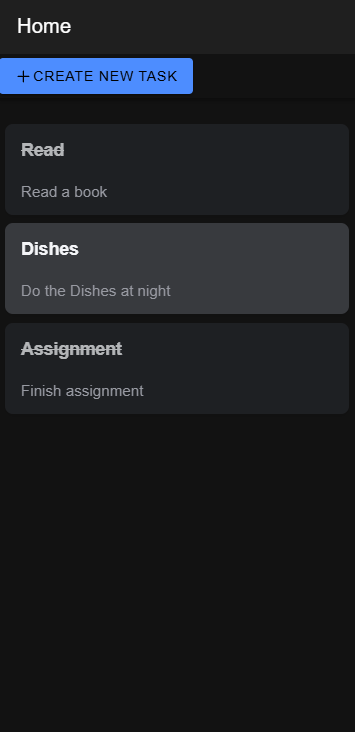
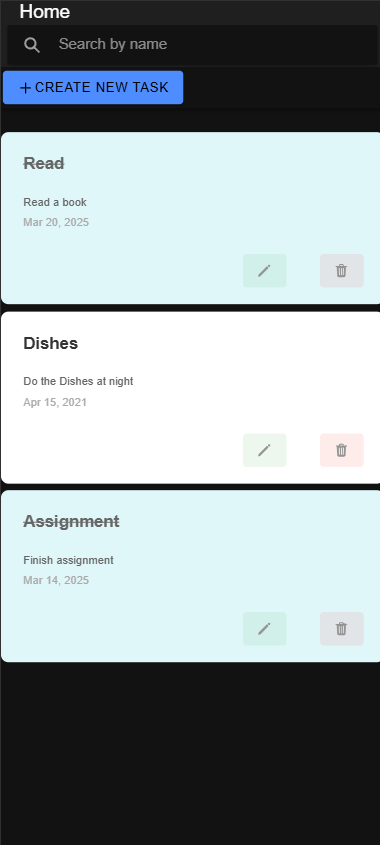
Search bar
Search bar added and readme fixed

diff --git a/src/app/shared/components/task-card/task-card.component.scss b/src/app/shared/components/task-card/task-card.component.scss
@@ -1,55 +1,100 @@
-.strikethrough{
+// Variables
+$primary-color: #4caf50;
+$danger-color: #f44336;
+$background-color: #fff;
+$shadow-color: rgba(0, 0, 0, 0.1);
+$text-color: #333;
+$secondary-text-color: #666;
+$small-text-color: #aaa;
+$completed-bg: #e0f7fa;
 
-	text-decoration: line-through;
-	opacity: 0.7;
+.task-card {
+	margin: 8px 0;
+	padding: 10px;
+	border-radius: 8px;
+	box-shadow: 0 2px 5px $shadow-color;
+	background-color: $background-color;
+	display: flex;
+	flex-direction: column;
+	justify-content: space-between;
+	transition: transform 0.2s ease-in-out;
 
+	&.done {
+		background-color: $completed-bg;
+	}
+
+	&:hover {
+		transform: translateY(-5px);
+		box-shadow: 0 5px 10px $shadow-color;
+	}
 }
 
-.task-card{
+.task-card .title {
+	font-size: 20px;
+	font-weight: bold;
+	color: $text-color;
+	margin: 0;
+}
 
-	cursor: pointer;
-	transition: transform 0.2s ease;
+.task-card .strikethrough {
+	text-decoration: line-through;
+	color: $secondary-text-color;
+}
 
-	margin: 8px;
-	border-radius: 8px;
-	box-shadow: 0 2px 6px rgba(0, 0, 0, 0.08);
-	background: var(--ion-color-light-tint);
+.task-card .description {
+	font-size: 14px;
+	color: $secondary-text-color;
+	margin: 4px 0;
+}
 
-	.title{
+.task-card .date {
+	font-size: 12px;
+	color: $small-text-color;
+	margin-top: 4px;
+}
 
-		font-size: 1.1rem;
-		font-weight: 600;
-		color: var(--ion-color-dark);
-		margin-bottom: 4px;
+.task-card .button-container {
+	display: flex;
+	justify-content: flex-end;
+	gap: 8px;
+}
 
+ion-button {
+	padding: 6px 12px;
+	border-radius: 20px;
+	font-size: 14px;
+	transition: background-color 0.3s ease;
+	--background: transparent;
+
+	& ion-icon {
+		font-size: 16px;
 	}
 
-	.content{
-
-		padding-top: 0;
-		
-		.description{
-
-			margin: 0;
-			color: var(--ion-color-medium);
-			font-size: 0.95rem;
-			line-height: 1.4;
-			white-space: pre-wrap;
-
-		}
-
+	&:hover {
+		background-color: rgba(0, 0, 0, 0.1);
 	}
 
-	&:active{
-
-		transform: scale(0.98);
-
-	}
-	
-	&.done{
-
-		background: var(--ion-color-light-shade);
-
+	&.primary {
+		--color: $primary-color;
+		--background: rgba(76, 175, 80, 0.1);
 	}
 
+	&.danger {
+		--color: $danger-color;
+		--background: rgba(244, 67, 54, 0.1);
+	}
+}
+
+@media (max-width: 600px) {
+	.task-card {
+		padding: 8px;
+	}
+
+	.task-card .title {
+		font-size: 18px;
+	}
+
+	.task-card .description {
+		font-size: 12px;
+	}
 }

diff --git a/src/app/task/services/task/task.service.ts b/src/app/task/services/task/task.service.ts
@@ -3,9 +3,10 @@ import { IStatement } from '@interfaces/statement/statement.interface';
 import { IQuery } from '@interfaces/query/query.interface';
 import { Task } from '@entities/task.entity';
 import { environment } from '@environment/environment';
-import { Observable } from 'rxjs';
+import { Observable, from } from 'rxjs';
+import { map } from 'rxjs/operators';
 
-import { Firestore, collection, collectionData, addDoc, deleteDoc, updateDoc, docData, doc } from '@angular/fire/firestore';
+import { Firestore, collection, collectionData, addDoc, deleteDoc, updateDoc, docData, doc, getDocs, query, where } from '@angular/fire/firestore';
 
 @Injectable({
 
@@ -13,7 +14,8 @@ import { Firestore, collection, collectionData, addDoc, deleteDoc, updateDoc, do
 
 }) export class TaskService implements IStatement<Task, string>, IQuery<Task, string>{
 
-	private readonly collectionName = environment.firebase.collections.task.name;
+	private readonly collectionName: string = environment.firebase.collections.task.name;
+	private readonly collectionIDField: string = environment.firebase.collections.task.idField;
 
 	public constructor(private firestore: Firestore) {}
 
@@ -23,7 +25,7 @@ import { Firestore, collection, collectionData, addDoc, deleteDoc, updateDoc, do
 
 			doc(this.firestore, `${this.collectionName}/${key}`),{
 
-				idField: 'id' 
+				idField: this.collectionIDField as keyof Task
 
 			}
 
@@ -31,11 +33,33 @@ import { Firestore, collection, collectionData, addDoc, deleteDoc, updateDoc, do
 
 	}
 
+	public findByName(title: string): Observable<Array<Task>> {
+
+		return from(getDocs(query(collection(this.firestore, this.collectionName)))).pipe(
+
+			map(snapshot => snapshot.docs.map(
+
+				doc => ({
+
+					id: doc.id,
+					...doc.data()
+				}) as Task
+				
+			).filter(
+
+				task => task.title.toLowerCase().includes(title.toLowerCase().trim())
+
+			))
+
+		);/**/
+
+	}
+
 	public findAll(): Observable<Array<Task>> {
 
 		return collectionData(collection(this.firestore, this.collectionName), {
 
-			idField: 'id'
+			idField: this.collectionIDField as keyof Task
 
 		}) as Observable<Array<Task>>;
 

diff --git a/src/app/pages/home/home.page.ts b/src/app/pages/home/home.page.ts
@@ -13,10 +13,26 @@ import { Router } from '@angular/router';
 }) export class HomePage implements OnInit{
 
 	public tasks!: Array<Task>;
+	public searchText: string = "";
 
-	public constructor(private task: TaskService, private router: Router) {}
+	public constructor(private task: TaskService, private router: Router) {
+
+		/*this.task.findByName('D').subscribe({
+
+			next: (t) => console.log(t),
+			error: (e) => console.error('Error:', e)
+
+		});/**/
+
+	}
 
 	public ngOnInit(): void {
+
+		this.findAll();
+
+	}
+
+	public findAll(): void {
 
 		this.task.findAll().subscribe({
 
@@ -24,6 +40,25 @@ import { Router } from '@angular/router';
 			error: (e) => console.error('Error:', e)
 
 		});
+
+	}
+
+	public findByName(): void {
+
+		if (this.searchText!==""){
+
+			this.task.findByName(this.searchText).subscribe({
+
+				next: (t) => this.tasks = t,
+				error: (e) => console.error('Error:', e)
+
+			});
+
+		}else{
+
+			this.findAll();
+
+		}
 
 	}
 

diff --git a/src/app/shared/components/task-card/task-card.component.html b/src/app/shared/components/task-card/task-card.component.html
@@ -1,19 +1,35 @@
-<ion-card class="task-card" [class.done]="task.done" (click)="navigateToDetail()">
-	
+<ion-card class="task-card" [class.done]="task.done">
+
 	<ion-card-header>
 
-		<ion-card-title class="title" [class]="task.done ? 'strikethrough' : '' ">
-
+		<ion-card-title class="title" [class.strikethrough]="task.done">
 			{{ task.title }}
-
 		</ion-card-title>
 
 	</ion-card-header>
 
+
 	<ion-card-content class="content">
 
 		<p class="description">{{ task.description }}</p>
+		<p class="date">{{ task.date.toDate() | date: 'mediumDate' }}</p>
 
 	</ion-card-content>
+
+	<div class="button-container">
+
+		<ion-button class="primary" fill="clear" (click)="navigateToDetail()">
+
+			<ion-icon name="pencil"></ion-icon>
+
+		</ion-button>
+
+		<ion-button class="danger" fill="clear" (click)="delete()">
+
+			<ion-icon name="trash"></ion-icon>
+
+		</ion-button>
+		
+	</div>
 
 </ion-card>

diff --git a/src/app/shared/components/task-card/task-card.component.ts b/src/app/shared/components/task-card/task-card.component.ts
@@ -1,4 +1,5 @@
 import { Component, OnInit, Input } from '@angular/core';
+import { TaskService } from '@task/services/task/task.service';
 import { Task } from '@entities/task.entity';
 import { Router } from '@angular/router';
 
@@ -17,13 +18,23 @@ import { Router } from '@angular/router';
 
 	}) public task!: Task;
 
-	public constructor(private router: Router) {}
+	public constructor(private router: Router, private store: TaskService) {}
 
 	public ngOnInit(): void {}
 
 	public navigateToDetail(): void {
 
 		this.router.navigate(['/task', this.task.id]);
+
+	}
+
+	public delete(): void {
+
+		if (this.task.id) {
+
+			this.store.delete(this.task.id);
+
+		}
 
 	}
 

diff --git a/src/app/pages/home/home.page.html b/src/app/pages/home/home.page.html
@@ -6,6 +6,8 @@
 			Home
 		</ion-title>
 
+		<ion-searchbar [(ngModel)]="searchText" (ionInput)="findByName()" placeholder="Search by name" class="custom-searchbar"></ion-searchbar>
+
 	</ion-toolbar>
 
 

diff --git a/src/domain/interfaces/query/query.interface.ts b/src/domain/interfaces/query/query.interface.ts
@@ -4,6 +4,8 @@ export interface IQuery<T, K>{
 
 	find(key: K): Observable<T | undefined>;
 
+	findByName(title: string): Observable<Array<T>>;
+
 	findAll(): Observable<Array<T>>;
 
 }

diff --git a/src/environments/environment.ts b/src/environments/environment.ts
@@ -17,7 +17,8 @@ export const environment = {
 
 			task: {
 
-				name: 'task'
+				name: 'task',
+				idField: 'id'
 
 			}
 

diff --git a/README.md b/README.md
@@ -6,9 +6,9 @@
 
 A mobile task management application with full CRUD operations, built with Ionic and Firebase Firestore.
 
-![App Screenshot](src/assets/img/home.PNG)
-![App Screenshot](src/assets/img/create.PNG)
-![App Screenshot](src/assets/img/detail.PNG)
+![App Screenshot](src/assets/img/home.png)
+![App Screenshot](src/assets/img/create.png)
+![App Screenshot](src/assets/img/detail.png)
 
 ## Key Features ✨
 - ✅ Full CRUD Operations for Tasks
